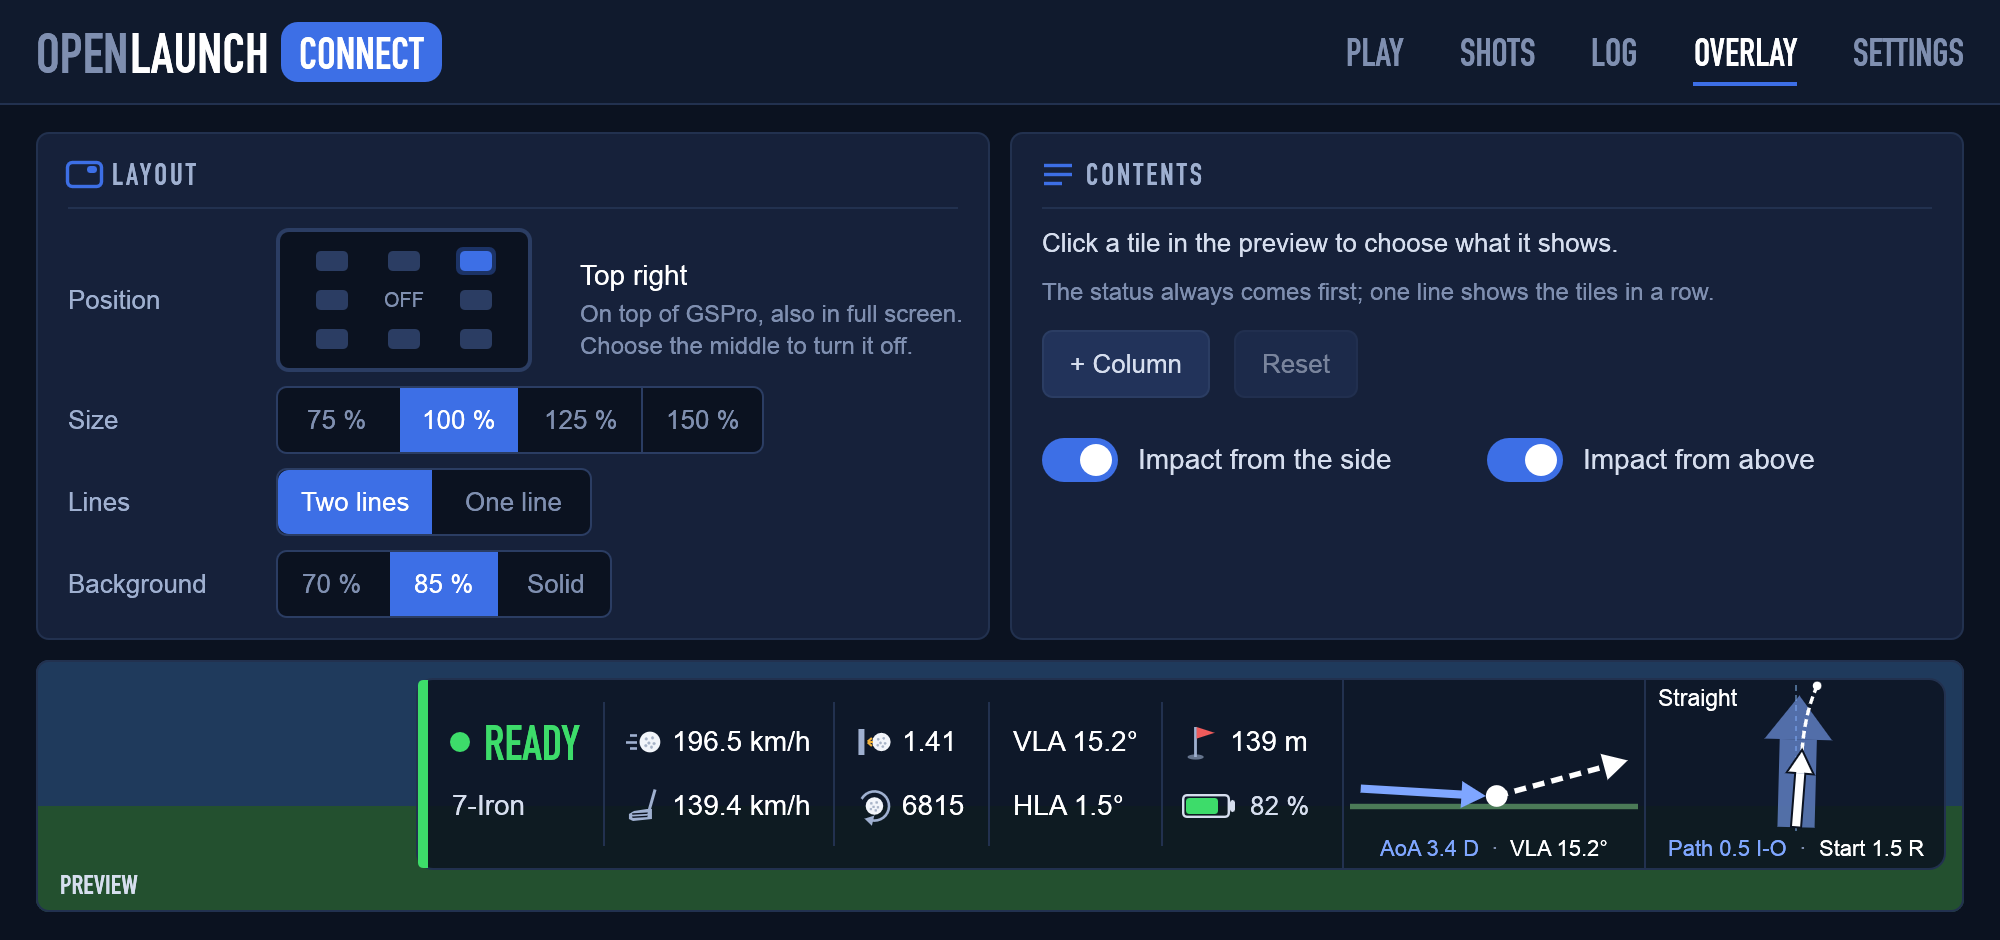
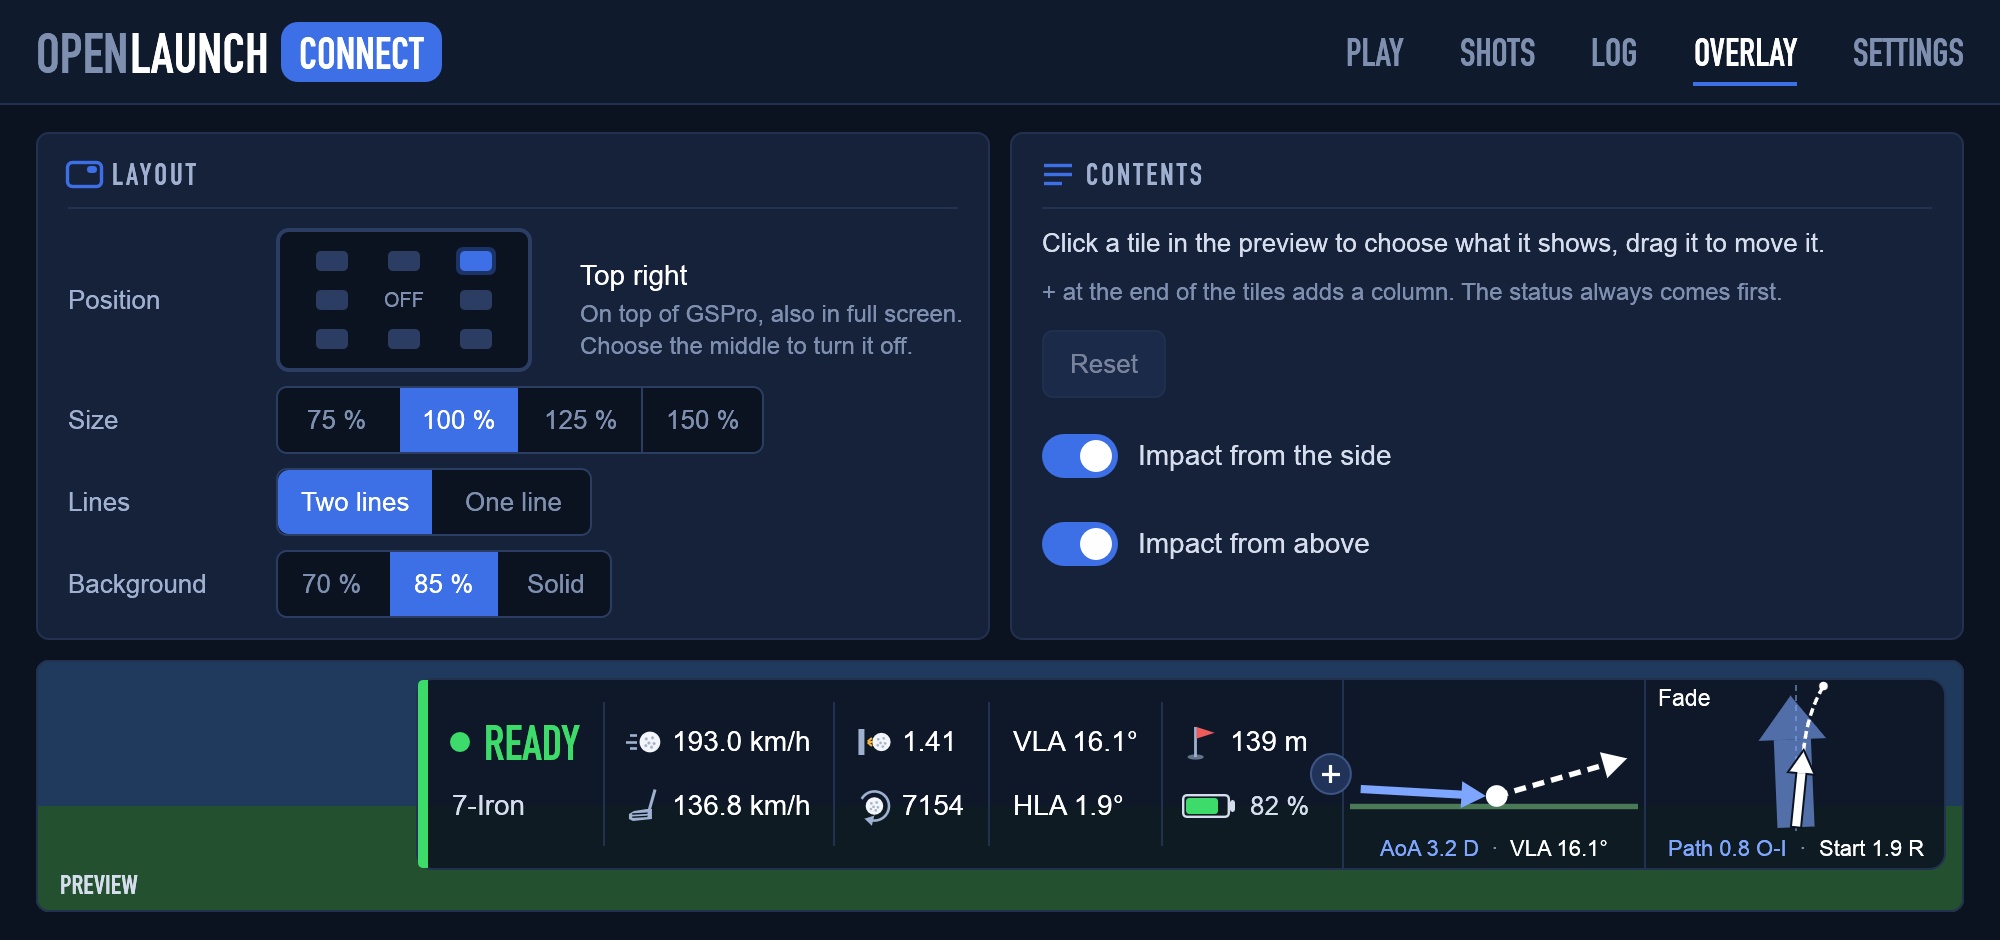
Overlay page: + in the preview adds a column, impact toggles one below the other

diff --git a/src/bin/openlaunch-connect.rs b/src/bin/openlaunch-connect.rs
@@ -853,12 +853,9 @@ impl App {
 
         card(ui, right, tr("CONTENTS"), Icon::List, |ui| {
             ui.label(RichText::new(tr("Click a tile in the preview to choose what it shows, drag it to move it.")).size(13.0).color(SOFT));
-            ui.label(RichText::new(tr("The status always comes first; one line shows the tiles in a row.")).size(12.0).color(MUTED));
+            ui.label(RichText::new(tr("+ at the end of the tiles adds a column. The status always comes first.")).size(12.0).color(MUTED));
             ui.add_space(2.0);
             ui.horizontal(|ui| {
-                if ui.add(secondary_button(tr("+ Column"))).on_hover_text(tr("Add an empty column at the end")).clicked() {
-                    style.layout.push([None, None]);
-                }
                 if ui
                     .add_enabled(style.layout != OverlayItem::default_layout(), secondary_button(tr("Reset")))
                     .on_hover_text(tr("Back to the tiles as they came"))
@@ -867,18 +864,9 @@ impl App {
                     style.layout = OverlayItem::default_layout();
                 }
             });
-            ui.add_space(4.0);
-            let body = ui.available_rect_before_wrap();
-            let cell_w = body.width() / 2.0;
-            for (i, (on, label)) in [(&mut style.impact_side, tr("Impact from the side")), (&mut style.impact_top, tr("Impact from above"))]
-                .into_iter()
-                .enumerate()
-            {
-                let r = Rect::from_min_size(body.min + vec2(i as f32 * cell_w, 0.0), vec2(cell_w, 30.0));
-                ui.scope_builder(egui::UiBuilder::new().max_rect(r).layout(egui::Layout::left_to_right(egui::Align::Center)), |ui| {
-                    toggle(ui, on, label);
-                });
-            }
+            ui.add_space(2.0);
+            toggle(ui, &mut style.impact_side, tr("Impact from the side"));
+            toggle(ui, &mut style.impact_top, tr("Impact from above"));
         });
 
         // Below the cards, down to the page's bottom margin (the cards move the layout cursor).
@@ -983,6 +971,20 @@ impl App {
                     style.layout.remove(k);
                 }
             });
+        }
+        // + right after the last column adds one.
+        if let Some(right) = tiles.iter().map(|t| t.2.right()).reduce(f32::max) {
+            let top = tiles.iter().map(|t| t.2.top()).fold(f32::MAX, f32::min);
+            let bottom = tiles.iter().map(|t| t.2.bottom()).fold(f32::MIN, f32::max);
+            let r = Rect::from_center_size(pos2(right, (top + bottom) / 2.0), vec2(20.0, 20.0));
+            let add = ui.interact(r, ui.id().with("overlay-add-column"), Sense::click());
+            let fg = ui.ctx().layer_painter(egui::LayerId::new(egui::Order::Foreground, ui.id().with("overlay-add")));
+            fg.circle(r.center(), 9.5, if add.hovered() { ACCENT } else { BUTTON }, Stroke::new(1.0, if add.hovered() { ACCENT_HOVER } else { BUTTON_LINE }));
+            fg.line_segment([r.center() - vec2(4.5, 0.0), r.center() + vec2(4.5, 0.0)], Stroke::new(1.6, WHITE));
+            fg.line_segment([r.center() - vec2(0.0, 4.5), r.center() + vec2(0.0, 4.5)], Stroke::new(1.6, WHITE));
+            if add.on_hover_text(tr("Add an empty column at the end")).on_hover_cursor(egui::CursorIcon::PointingHand).clicked() {
+                style.layout.push([None, None]);
+            }
         }
         if let Some(((k1, r1), (k2, r2))) = swap
             && k1 < style.layout.len()

diff --git a/src/i18n.rs b/src/i18n.rs
@@ -207,9 +207,8 @@ fn de(en: &str) -> Option<&'static str> {
         "Click to choose what this tile shows, drag to move it" => "Klicken wählt, was die Kachel zeigt; Ziehen verschiebt sie",
         "Back to the tiles as they came" => "Zurück zur Standard-Anordnung",
         "Add an empty column at the end" => "Leere Spalte hinten anfügen",
-        "+ Column" => "+ Spalte",
-        "The status always comes first; one line shows the tiles in a row." => "Der Status steht immer vorn; einzeilig stehen die Kacheln nebeneinander.",
-        "Click a tile in the preview to choose what it shows, drag it to move it." => "Klick auf eine Kachel in der Vorschau wählt, was sie zeigt; Ziehen verschiebt sie.",
+        "+ at the end of the tiles adds a column. The status always comes first." => "+ am Ende der Kacheln fügt eine Spalte hinzu. Der Status steht immer vorn.",
+        "Click a tile in the preview to choose what it shows, drag it to move it." => "Kachel in der Vorschau anklicken wählt den Inhalt, Ziehen verschiebt sie.",
         "Distance to the pin" => "Zur Fahne",
         "Carry, total, apex, side and landing angle as GSPro computed them" => "Carry, Gesamt, Scheitelhöhe, Seitlich und Landewinkel so, wie GSPro sie berechnet hat",
         "GSPro results" => "GSPro-Werte",
